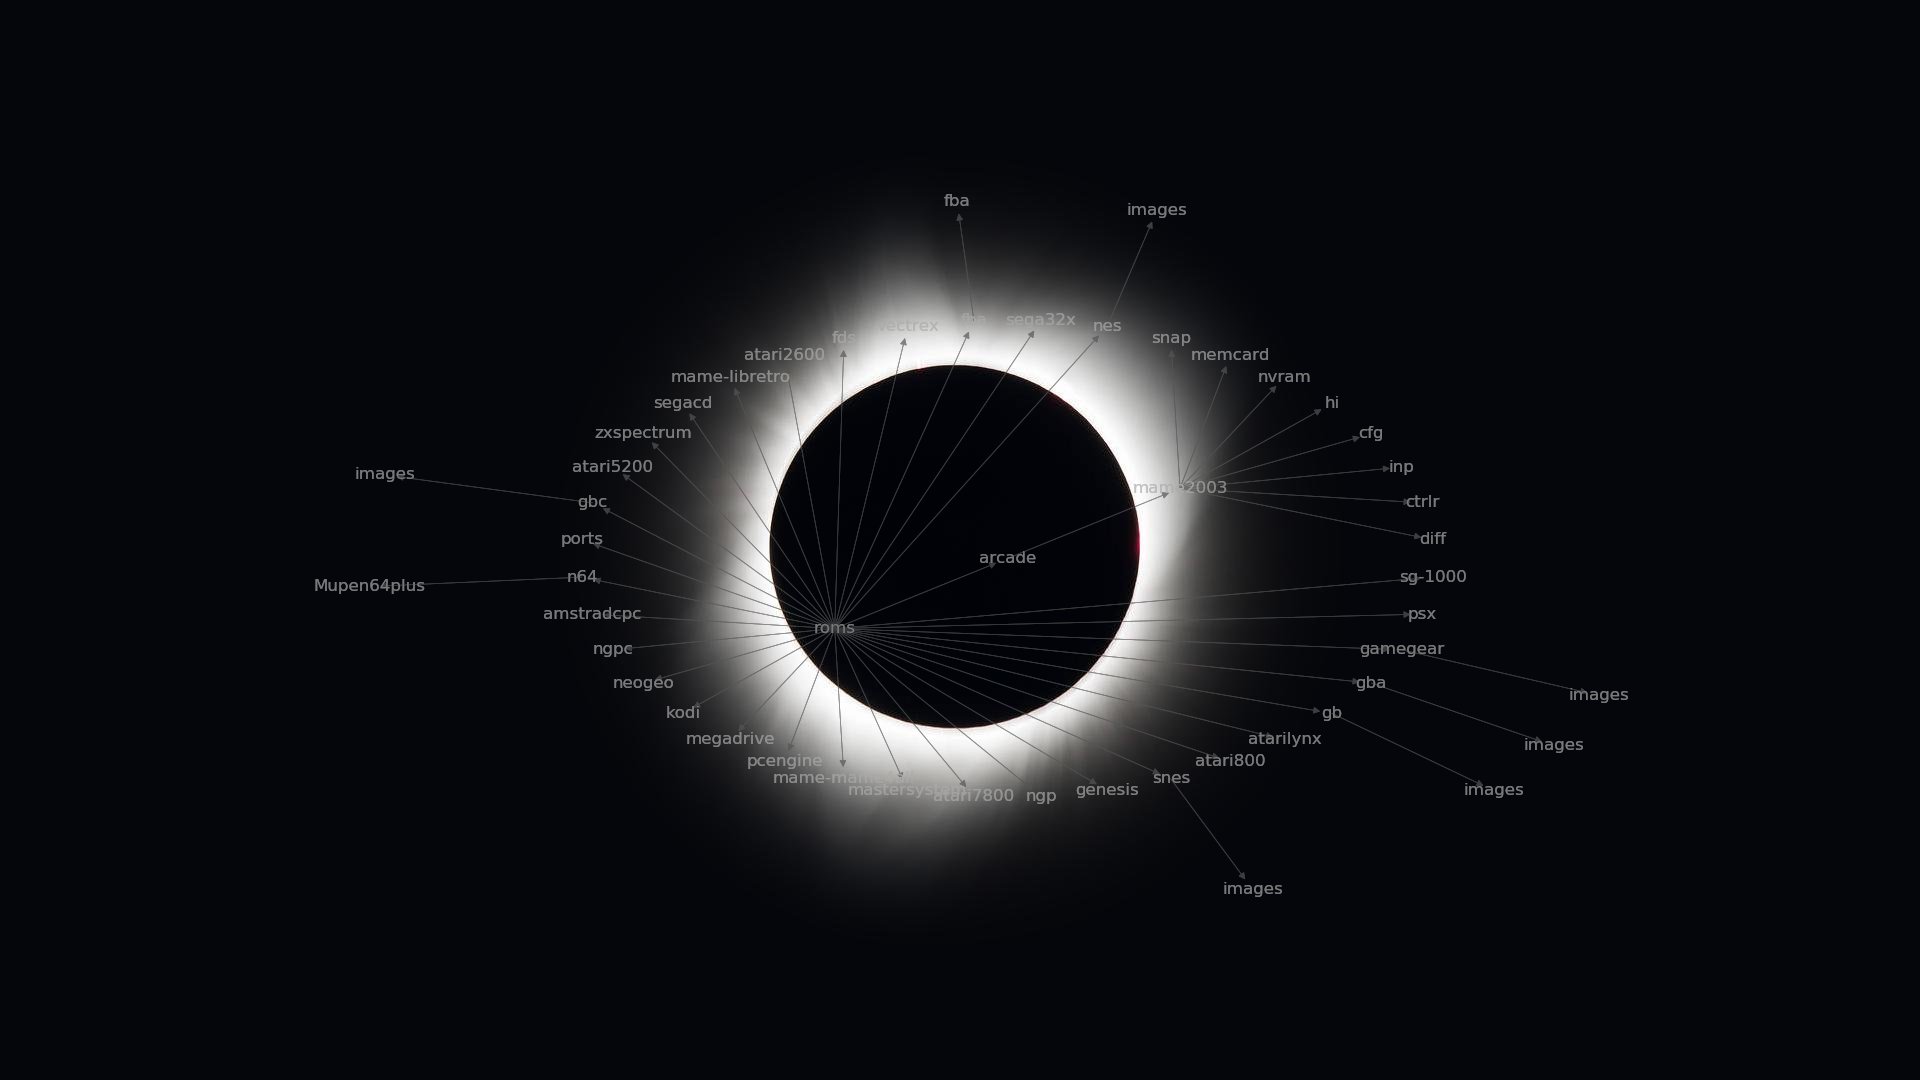
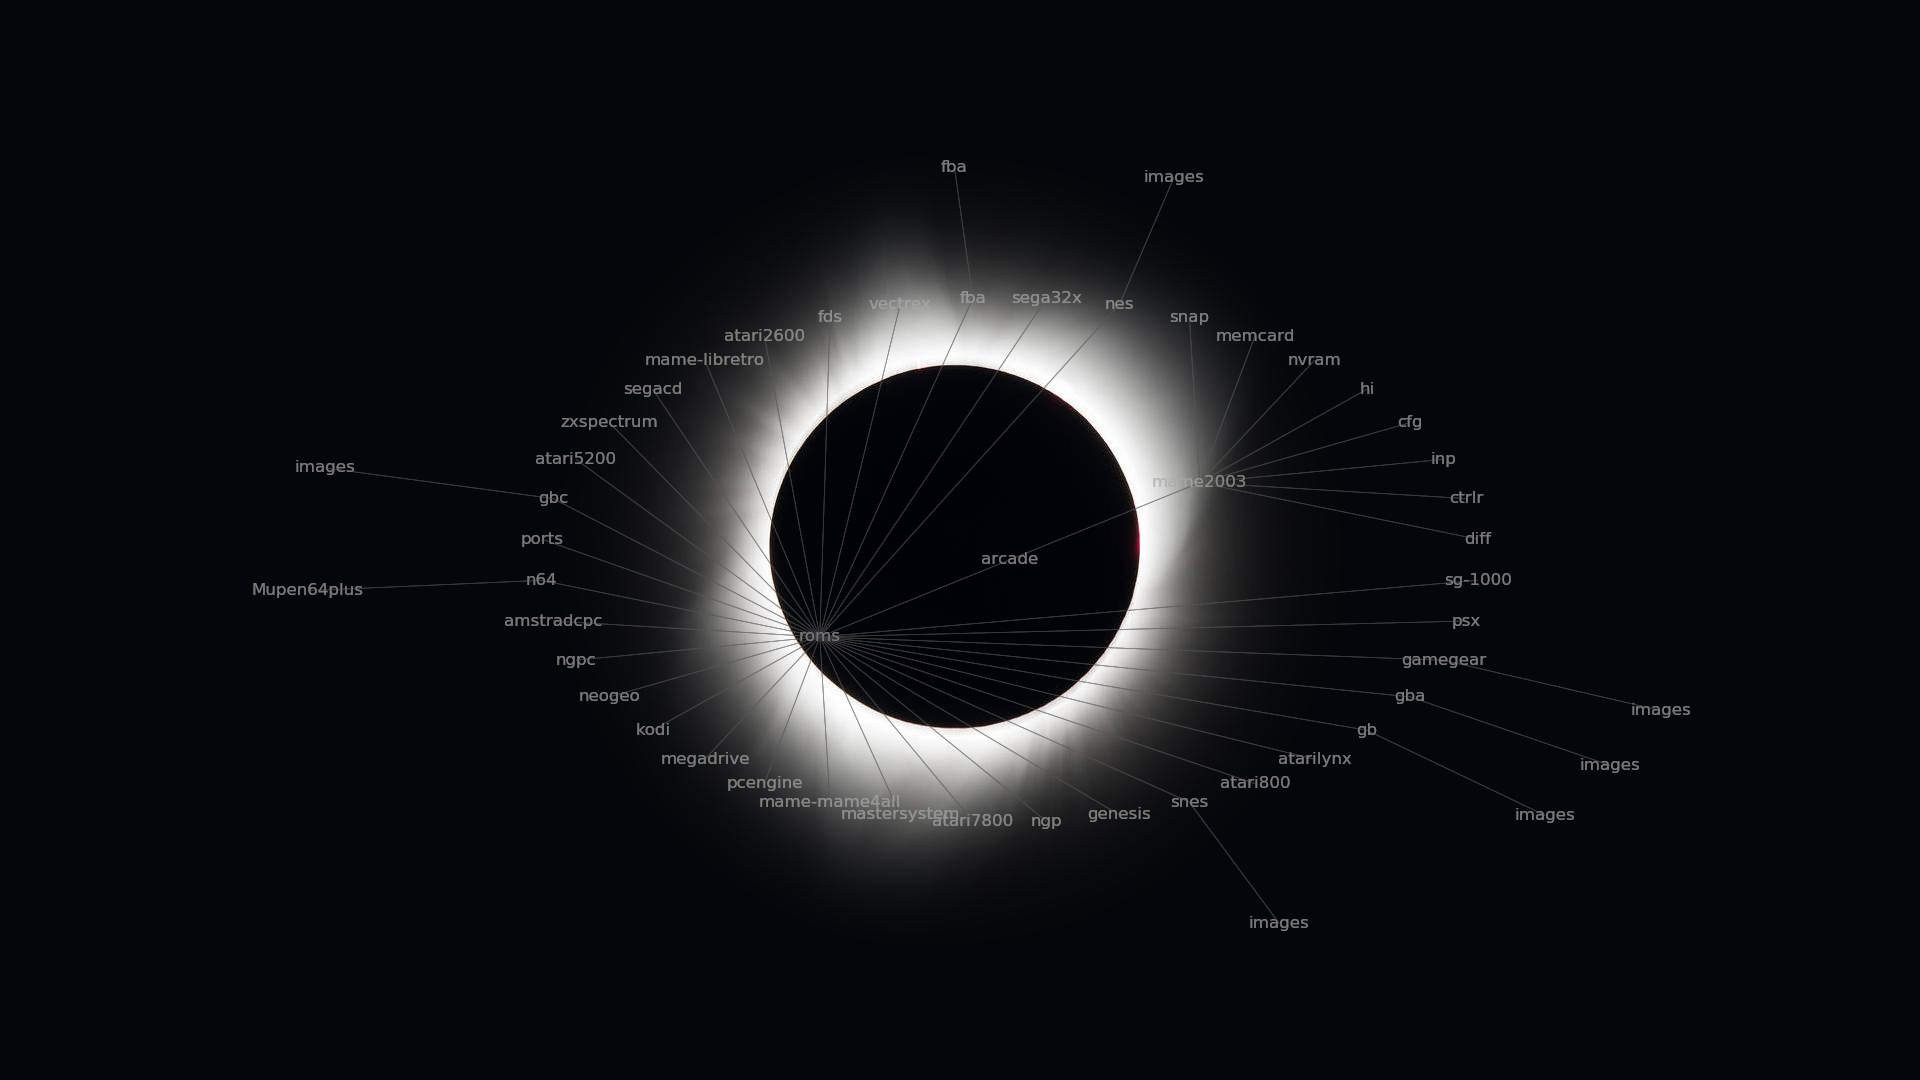
added edge styles and improved examples

diff --git a/pfsg.py b/pfsg.py
@@ -14,34 +14,35 @@ import click
 @click.argument("output", nargs=1)
 @click.option("--width", "-w",  default=1920, help="Graph width")
 @click.option("--height", "-h",  default=1080, help="Graph height")
-@click.option("--image",  default=None, help="Image file for graph to overlay ontop of")
-@click.option("--background-colour", "-b",   default="#33333300", help="Background colour in form '#RRGGBBAA'")
-@click.option("--label-size", "-f",  default=12, help="Font size for labels")
+@click.option("--layout", "-l",  default="dot", help="Layout style: dot|twopi|neato|fdp|sfdp|circo ")
+@click.option("--image",  "-i",  default=None, help="Image file for graph to overlay ontop of")
+@click.option("--background-colour", "-b",   default="#333333FF", help="Background colour in form '#RRGGBBAA'")
+@click.option("--depth",  "-d", default=48, help="Max node depth")
+@click.option("--label-depth",  default=10, help="Max depth to draw labels")
+@click.option("--label-size",  default=12, help="Font size for labels")
 @click.option("--label-colour",  default="#AAAAAAFF", help="Font colour in form '#RRGGBBAA'")
-@click.option("--label-depth",  default=2, help="Max depth to draw labels")
-@click.option("--file-label-size", "-f",  default=8, help="Font size for file labels")
+@click.option("--file-label-size", default=8, help="Font size for file labels")
 @click.option("--file-label-colour",  default="#AAAAAAFF", help="Font colour in form '#RRGGBBAA'")
 @click.option("--edge-width", default=0.5, help="Edge line width")
 @click.option("--edge-colour", default="#555555FF", help="Edge colour in form '#RRGGBBAA'")
+@click.option("--edge-style", default="solid", help="Edge style: solid|dashed|dotted|dashdot ")
 @click.option("--node-size", default=0, help="Node dot size, set to zero to disable")
-@click.option("--file-node-size", default=0, help="Node dot size, set to zero to disable")
 @click.option("--node-colour", default="#555555FF", help="Node colour in form '#RRGGBBAA'")
-@click.option("--file-node-colour", default="#555555FF", help="Node colour in form '#RRGGBBAA'")
-@click.option("--show-files", default=False, is_flag=True, help="Shows files")
-@click.option("--show-file-labels", default=False, is_flag=True, help="Shows file labels")
-@click.option("--layout", "-l",  default="dot", help="Layout style: ‘dot’, ‘twopi’, ‘fdp’, ‘sfdp’, ‘circo’")
-@click.option("--set-wallpaper", default=False, is_flag=True, help="Sets output image as wallpaper using feh")
+@click.option("--file-node-size", default=0, help="Node dot size, set to zero to disable")
+@click.option("--file-node-colour", default="#FF5555FF", help="Node colour in form '#RRGGBBAA'")
+@click.option("--show-files", "-f",  default=False, is_flag=True, help="Shows file nodes")
+@click.option("--show-file-labels", default=False, is_flag=True, help="Shows file labels, restricted by label-depth")
+@click.option("--set-wallpaper", "-s",  default=False, is_flag=True, help="Sets output image as wallpaper using feh")
 @click.option("--verbose", "-v",  default=False, is_flag=True, help="Display more output than necessary")
 def main(
-directory, output, 
-width, height, 
+directory, output, layout, 
+width, height, depth, 
 label_size, label_colour, label_depth, 
 background_colour, image,  
-edge_colour, edge_width,  
+edge_colour, edge_width, edge_style, 
 node_colour, node_size, 
 show_files, file_node_colour, file_node_size, file_label_colour, file_label_size, show_file_labels, 
-layout,  set_wallpaper, 
-verbose):
+set_wallpaper, verbose):
     """ 
     PFSG - Python Filesystem Grapher
     
@@ -50,18 +51,21 @@ verbose):
     """
     G = nx.Graph() # create graph
     base_depth = len(directory.split("/"))  -1
-    G.add_node(directory,  file='False',  depth=0,  label=directory)
+    G.add_node(directory,  file='False',  depth=0,  label=directory.split("/")[-1])
     for (dirpath, dirnames, filenames) in os.walk(directory):
-        for f in filenames:
-            G.add_node(os.path.join(dirpath, f),  file='True',  depth=(len(dirpath.split("/"))-base_depth),  label=f)
-            G.add_edge(dirpath ,  os.path.join(dirpath, f))
+        if show_files:
+            for f in filenames:
+                G.add_node(os.path.join(dirpath, f),  file='True',  depth=(len(dirpath.split("/"))-base_depth),  label=f)
+                G.add_edge(dirpath ,  os.path.join(dirpath, f), file='True')
         for d in dirnames:
-            G.add_node(os.path.join(dirpath, d),  file='False', depth=(len(dirpath.split("/"))-base_depth),  label=d)
-            G.add_edge(dirpath ,  os.path.join(dirpath, d))
+                G.add_node(os.path.join(dirpath, d),  file='False', depth=(len(dirpath.split("/"))-base_depth),  label=d)
+                G.add_edge(dirpath ,  os.path.join(dirpath, d),  file='False')
           
     file_nodes = []
-    dir_nodes = []
+    file_edges = []
     file_labels = {}
+    dir_nodes = []
+    dir_edges = []
     dir_labels = {}
     files=nx.get_node_attributes(G,'file')
     labels=nx.get_node_attributes(G,'label')
@@ -70,16 +74,23 @@ verbose):
         if file=='True':
             file_nodes.append(node)
             if depth[node] < label_depth: file_labels[node] = labels[node]
-        else:
+        else: # for directories
             dir_nodes.append(node)
             if depth[node] < label_depth: dir_labels[node] = labels[node]
+    
+    files=nx.get_edge_attributes(G,'file')
+    for edge, file in files.items():
+        if file=='True':
+            file_edges.append(edge)
+        else: # for directories
+            dir_edges.append(edge)
     
     pos = graphviz_layout(G, prog=layout, root=1) # use layout
     fig = plt.figure(figsize=(width/100.0, height/100.0)) # set figure size
     
-    nx.draw_networkx_nodes(G, pos, nodelist=dir_nodes, node_size=node_size, node_color=node_colour)
+    nx.draw_networkx_nodes(G, pos, nodelist=dir_nodes, node_size=node_size, node_color=node_colour,  cmap=plt.get_cmap('Reds'))
     nx.draw_networkx_nodes(G, pos, nodelist=file_nodes, node_size=file_node_size, node_color=file_node_colour)
-    nx.draw_networkx_edges(G, pos, edge_color=edge_colour, width=edge_width)#,  style='dotted',  connectionstyle='arc3,rad=0.2')
+    nx.draw_networkx_edges(G, pos, edge_color=edge_colour, width=edge_width,  style=edge_style)
     if show_file_labels: nx.draw_networkx_labels(G, pos, labels=file_labels ,  font_color=file_label_colour, font_size=file_label_size,  alpha=1)
     nx.draw_networkx_labels(G, pos, labels=dir_labels ,  font_color=label_colour, font_size=label_size,  alpha=1)
     plt.axis('off')

diff --git a/README.md b/README.md
@@ -6,17 +6,17 @@ Uses matplotlib and networkx to create graph of given directory structure and ex
 
 ```
 ./pfsg.py /dev/disk dot.png --image /home/odroid/opportunity.png -l dot --file-node-colour "#AA2222FF" --show-files --file-node-size 145 --label-size 12 --label-colour "#CCCCCCFF" --edge-colour "#666666FF" --edge-width 5
-
 ```
 <img src="https://github.com/niveknosredneh/PFSG/blob/master/img/dot.png" width="640" align="middle">
 
 ```
-./pfsg.py /dev twopi.png --image /home/odroid/eclipse.jpg -l twopi
+./pfsg.py /home/odroid/roms twopi.png --image /home/odroid/eclipse.jpg -l twopi
 ```
 <img src="https://github.com/niveknosredneh/PFSG/blob/master/img/twopi.png" width="640" align="middle">
 
 ```
-./pfsg.py /dev/disk sfdp.png --image /home/odroid/Grey-Wall.png -l sfdp --label-depth 12 --file-node-colour "#AA2222FF" --show-files --file-node-size 0 --show-file-labels --label-size 24 --file-label-size 14 --file-label-colour "#FF2222FF" --label-colour "#AA2222FF" --edge-colour "#662222FF" --edge-width 2
+./pfsg.py /home/odroid/Code sfdp.png -b "#000000FF" -l sfdp --edge-colour "#222222FF" --edge-width 1 --label-colour "#FFFFFFFF" -f --file-node-colour "#FF5555FF" --file-node-size 25 --label-size 8
+
 ```
 <img src="https://github.com/niveknosredneh/PFSG/blob/master/img/sfdp.png" width="640" align="middle">
 
@@ -46,31 +46,31 @@ cd PFSG && sudo chmod +x pfsg.py
 ...
 ```
 
-## Options
+### Options
 ```
-  -w, --width INTEGER            Graph width
-  -h, --height INTEGER           Graph height
-  --image TEXT                   Image file for graph to overlay ontop of
-  -b, --background-colour TEXT   Background colour in form '#RRGGBBAA'
-  -f, --label-size INTEGER       Font size for labels
-  --label-colour TEXT            Font colour in form '#RRGGBBAA'
-  --label-depth INTEGER          Max depth to draw labels
-  -f, --file-label-size INTEGER  Font size for file labels
-  --file-label-colour TEXT       Font colour in form '#RRGGBBAA'
-  --edge-width FLOAT             Edge line width
-  --edge-colour TEXT             Edge colour in form '#RRGGBBAA'
-  --node-size INTEGER            Node dot size, set to zero to disable
-  --file-node-size INTEGER       Node dot size, set to zero to disable
-  --node-colour TEXT             Node colour in form '#RRGGBBAA'
-  --file-node-colour TEXT        Node colour in form '#RRGGBBAA'
-  --show-files                   Shows files
-  --show-file-labels             Shows file labels
-  -l, --layout TEXT              Layout style: ‘dot’, ‘twopi’, ‘fdp’, ‘sfdp’,
-                                 ‘circo’
-  --set-wallpaper                Sets output image as wallpaper using feh
-  -v, --verbose                  Display more output than necessary
-  --help                         Show this message and exit.
-
+  -w, --width INTEGER           Graph width
+  -h, --height INTEGER          Graph height
+  -l, --layout TEXT             Layout style: dot|twopi|neato|fdp|sfdp|circo
+  -i, --image TEXT              Image file for graph to overlay ontop of
+  -b, --background-colour TEXT  Background colour in form '#RRGGBBAA'
+  -d, --depth INTEGER           Max node depth
+  --label-depth INTEGER         Max depth to draw labels
+  --label-size INTEGER          Font size for labels
+  --label-colour TEXT           Font colour in form '#RRGGBBAA'
+  --file-label-size INTEGER     Font size for file labels
+  --file-label-colour TEXT      Font colour in form '#RRGGBBAA'
+  --edge-width FLOAT            Edge line width
+  --edge-colour TEXT            Edge colour in form '#RRGGBBAA'
+  --edge-style TEXT             Edge style: solid|dashed|dotted|dashdot
+  --node-size INTEGER           Node dot size, set to zero to disable
+  --node-colour TEXT            Node colour in form '#RRGGBBAA'
+  --file-node-size INTEGER      Node dot size, set to zero to disable
+  --file-node-colour TEXT       Node colour in form '#RRGGBBAA'
+  -f, --show-files              Shows file nodes
+  --show-file-labels            Shows file labels, restricted by label-depth
+  -s, --set-wallpaper           Sets output image as wallpaper using feh
+  -v, --verbose                 Display more output than necessary
+  --help                        Show this message and exit.
 
 ```
 
